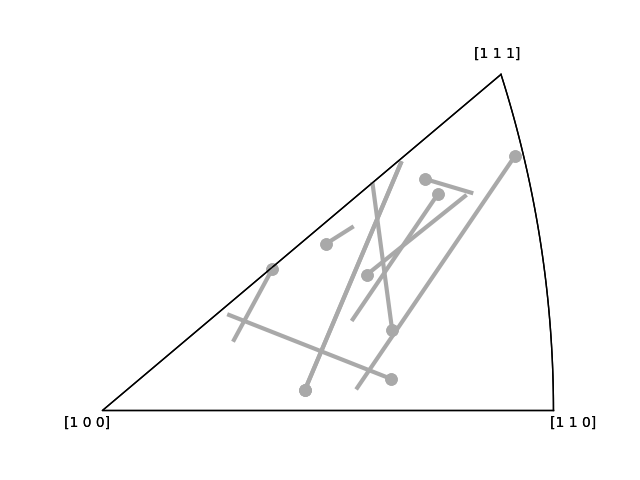
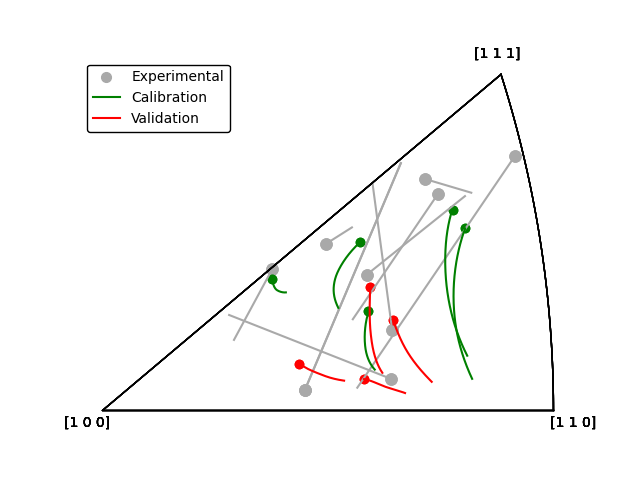
added exp plotting for bcc

diff --git a/scripts/assess.py b/scripts/assess.py
@@ -56,6 +56,12 @@ def get_grain_dict(pc_model:dict, history:dict, indexes:list) -> dict:
     # Return dictionary
     return grain_dict
 
+# Initialises the model and plotter
+model = Model(GRAINS_PATH, "bcc", 1.3)
+_, top_indexes = get_top(model.get_weights(), TOP_GRAINS)
+direction = [[1,0,0], [0,1,0], [0,0,1]][0]
+ipf = IPF(model.get_lattice())
+
 # Gets the experimental data
 exp_path = "/mnt/c/Users/Janzen/OneDrive - UNSW/PhD/data/20240506 (ondrej_P91)/tensile_p91.csv"
 exp_dict = csv_to_dict(exp_path)
@@ -70,24 +76,16 @@ for i in range(1,num_grains+1):
     exp_history[0].append([phi_1[0], Phi[0], phi_2[0]])
     exp_history[1].append([phi_1[-1], Phi[-1], phi_2[-1]])
 
-# Define parameter domains
-param_dict_1 = {
-    "tau_sat": 700,
-    "b":       15,
-    "tau_0":   300,
+# Get simulated results
+param_dict = {
+    "tau_sat": 50.039,
+    "b":       25.486,
+    "tau_0":   182.49,
     "gamma_0": round_sf(STRAIN_RATE/3, 4),
-    "n":       5.5,
+    "n":       12.054,
 }
-
-# Initialises the model and plotter
-model = Model(GRAINS_PATH, "bcc", 1.3)
-_, top_indexes = get_top(model.get_weights(), TOP_GRAINS)
-direction = [[1,0,0], [0,1,0], [0,0,1]][0]
-ipf = IPF(model.get_lattice())
-
-# # Run both sets of parameters
-# _, _, results_1 = model.get_results_direct(param_dict_1)
-# history_1 = model.get_orientation_history()
+_, _, sim_results = model.get_results_direct(param_dict)
+sim_history = model.get_orientation_history()
 
 # # Plot the tensile curves
 # plotter = Plotter(x_label="strain", y_label="stress")
@@ -96,19 +94,18 @@ ipf = IPF(model.get_lattice())
 # define_legend(["darkgray", "green"], ["Experimental", "Calibration"], [7, 1.5], ["scatter", "line"])
 # save_plot("plot_ss.png")
 
-
 # Plot the experimental reorientation trajectories
 exp_trajectories = get_trajectories(exp_history, list(range(10)))
-ipf.plot_ipf_trajectory(exp_trajectories, direction, {"color": "darkgray", "linewidth": 3}, scatter=False)
+ipf.plot_ipf_trajectory(exp_trajectories, direction, {"color": "darkgray"}, scatter=False)
 exp_trajectories = [[et[0]] for et in exp_trajectories]
 ipf.plot_ipf_trajectory(exp_trajectories, direction, {"color": "darkgray", "s": 8**2}, scatter=True)
 
 # Plot the simulated reorientation trajectories
-# trajectories = get_trajectories(history_2, top_indexes[:5])
-# ipf.plot_ipf_trajectory([[t[0]] for t in trajectories], direction, {"color": "green"}, scatter=True)
-# ipf.plot_ipf_trajectory(trajectories, direction, {"color": "green"}, scatter=False)
-# trajectories = get_trajectories(history_2, top_indexes[5:])
-# ipf.plot_ipf_trajectory([[t[0]] for t in trajectories], direction, {"color": "red"}, scatter=True)
-# ipf.plot_ipf_trajectory(trajectories, direction, {"color": "red"}, scatter=False)
-# define_legend(["darkgray", "green", "red"], ["Experimental", "Calibration", "Validation"], [7, 1.5, 1.5], ["scatter", "line", "line"])
+trajectories = get_trajectories(sim_history, top_indexes[:5])
+ipf.plot_ipf_trajectory([[t[0]] for t in trajectories], direction, {"color": "green"}, scatter=True)
+ipf.plot_ipf_trajectory(trajectories, direction, {"color": "green"}, scatter=False)
+trajectories = get_trajectories(sim_history, top_indexes[5:10])
+ipf.plot_ipf_trajectory([[t[0]] for t in trajectories], direction, {"color": "red"}, scatter=True)
+ipf.plot_ipf_trajectory(trajectories, direction, {"color": "red"}, scatter=False)
+define_legend(["darkgray", "green", "red"], ["Experimental", "Calibration", "Validation"], [7, 1.5, 1.5], ["scatter", "line", "line"])
 save_plot(f"plot_ipf_{''.join([str(d) for d in direction])}.png")
